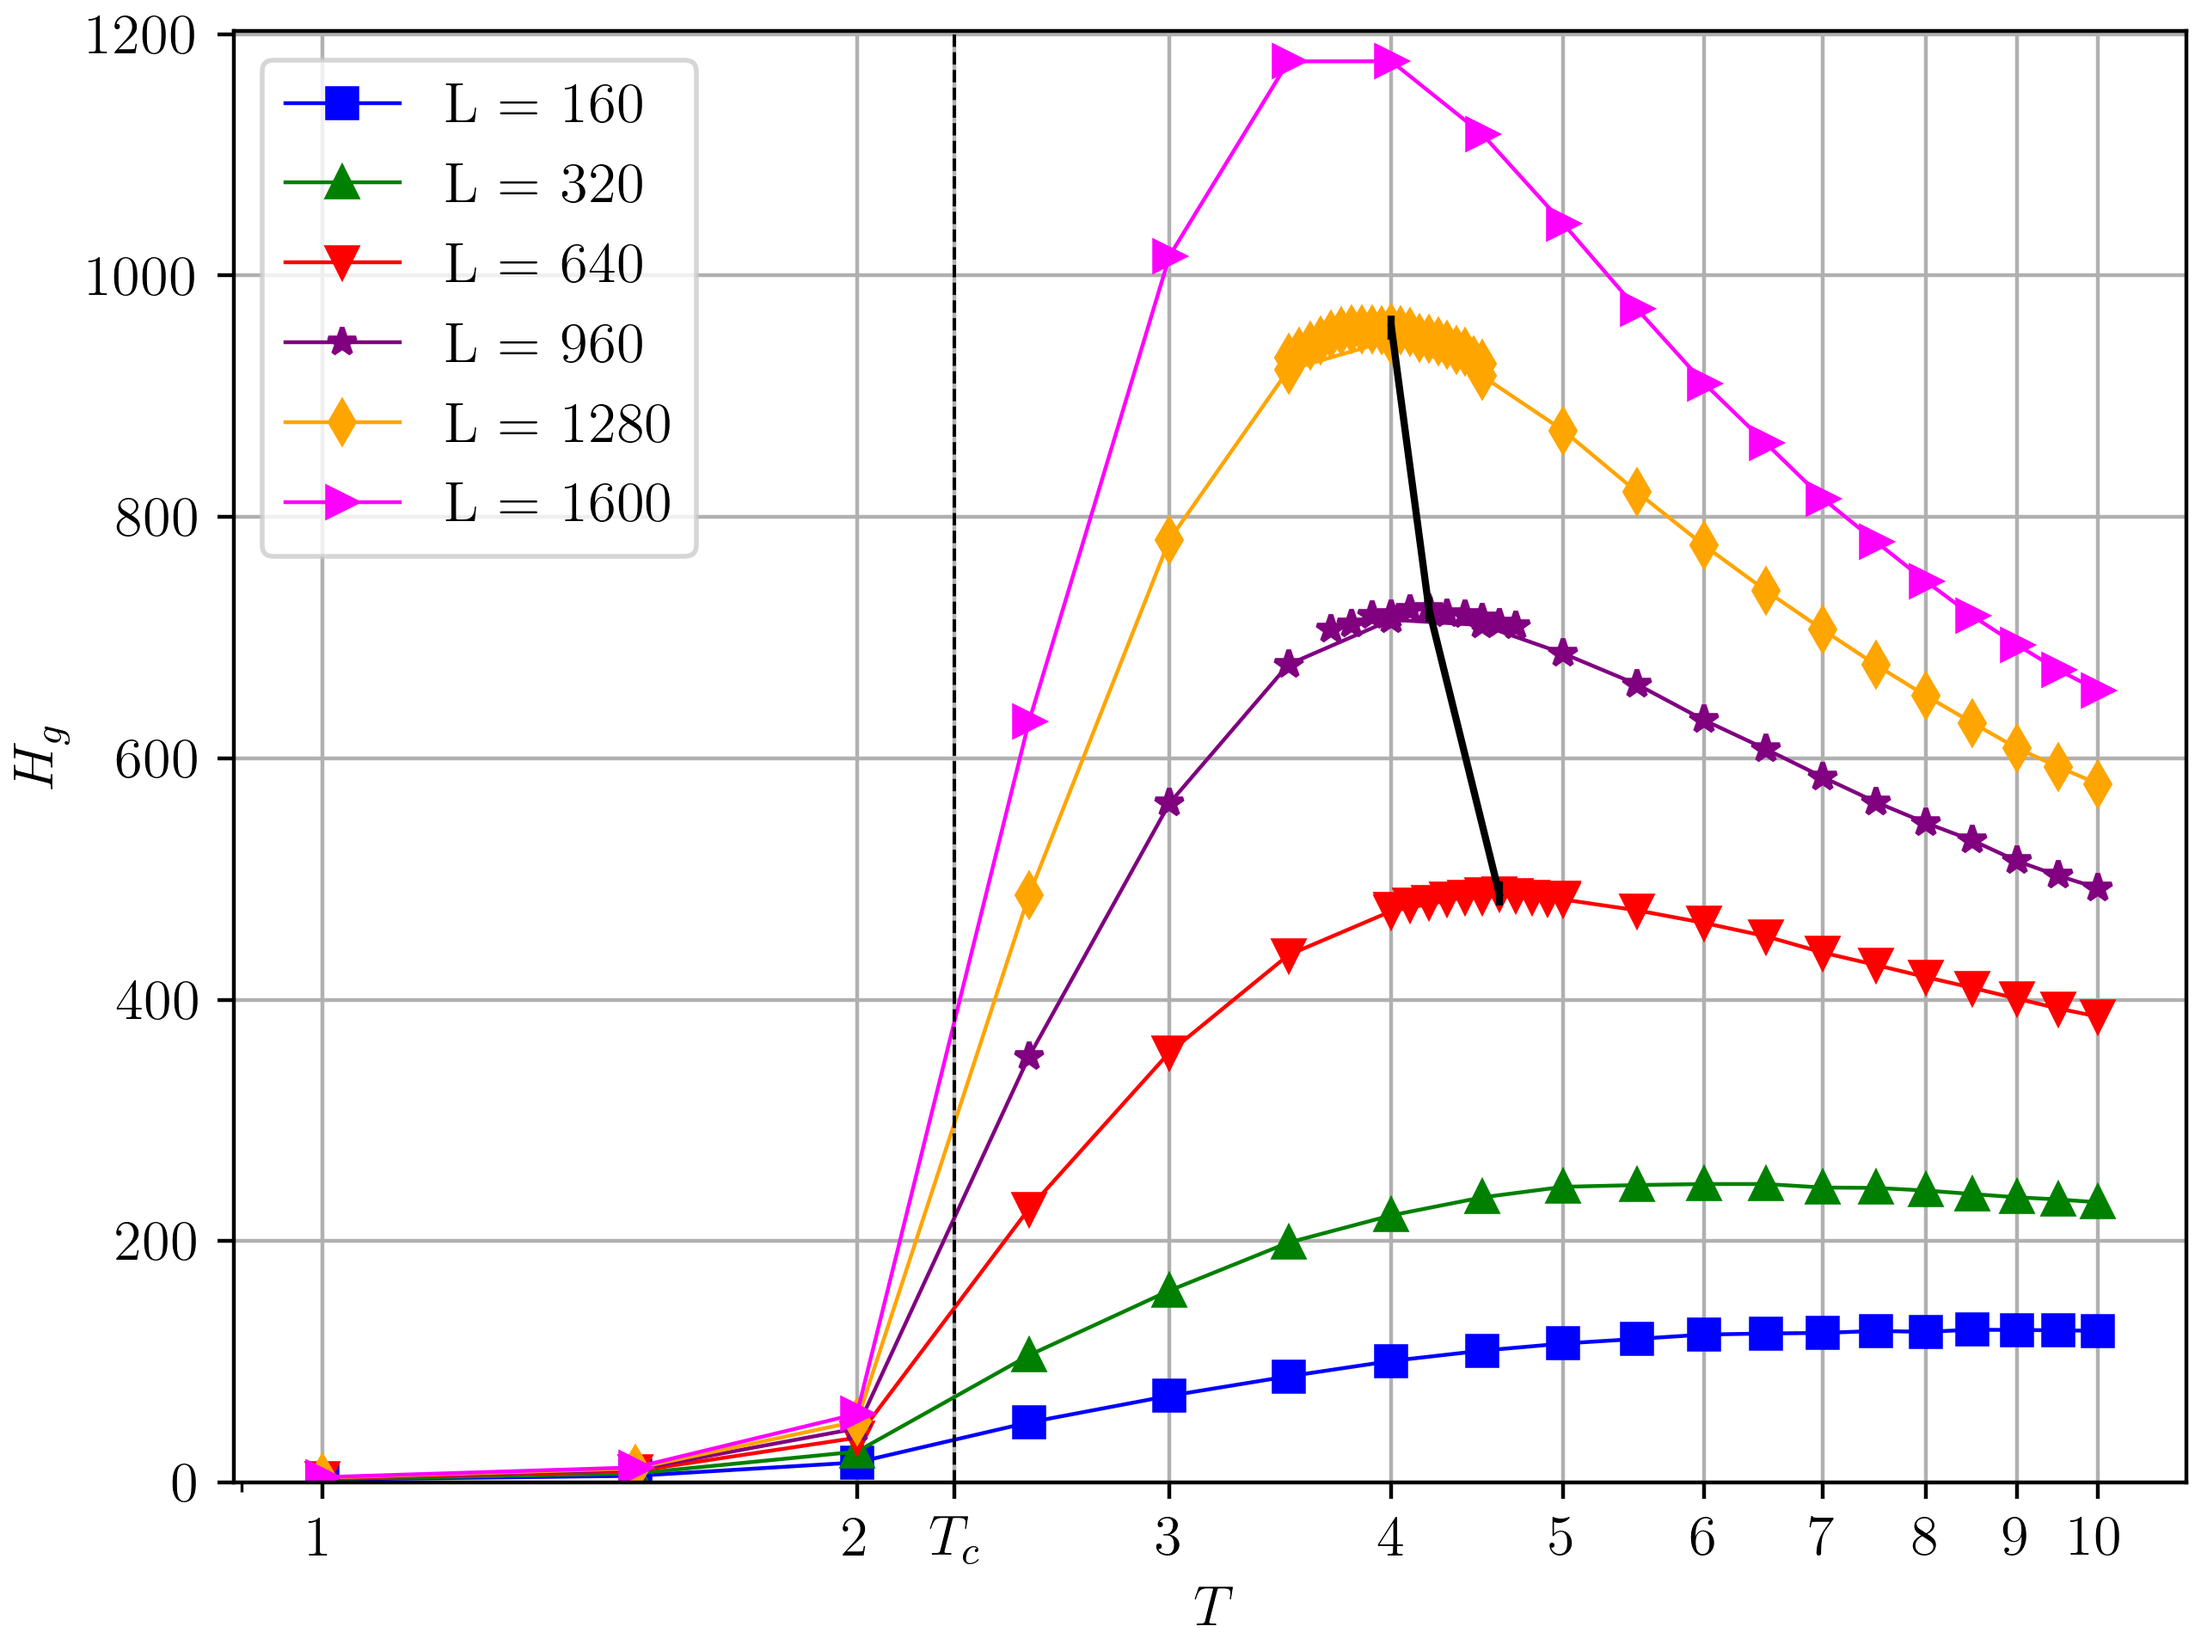
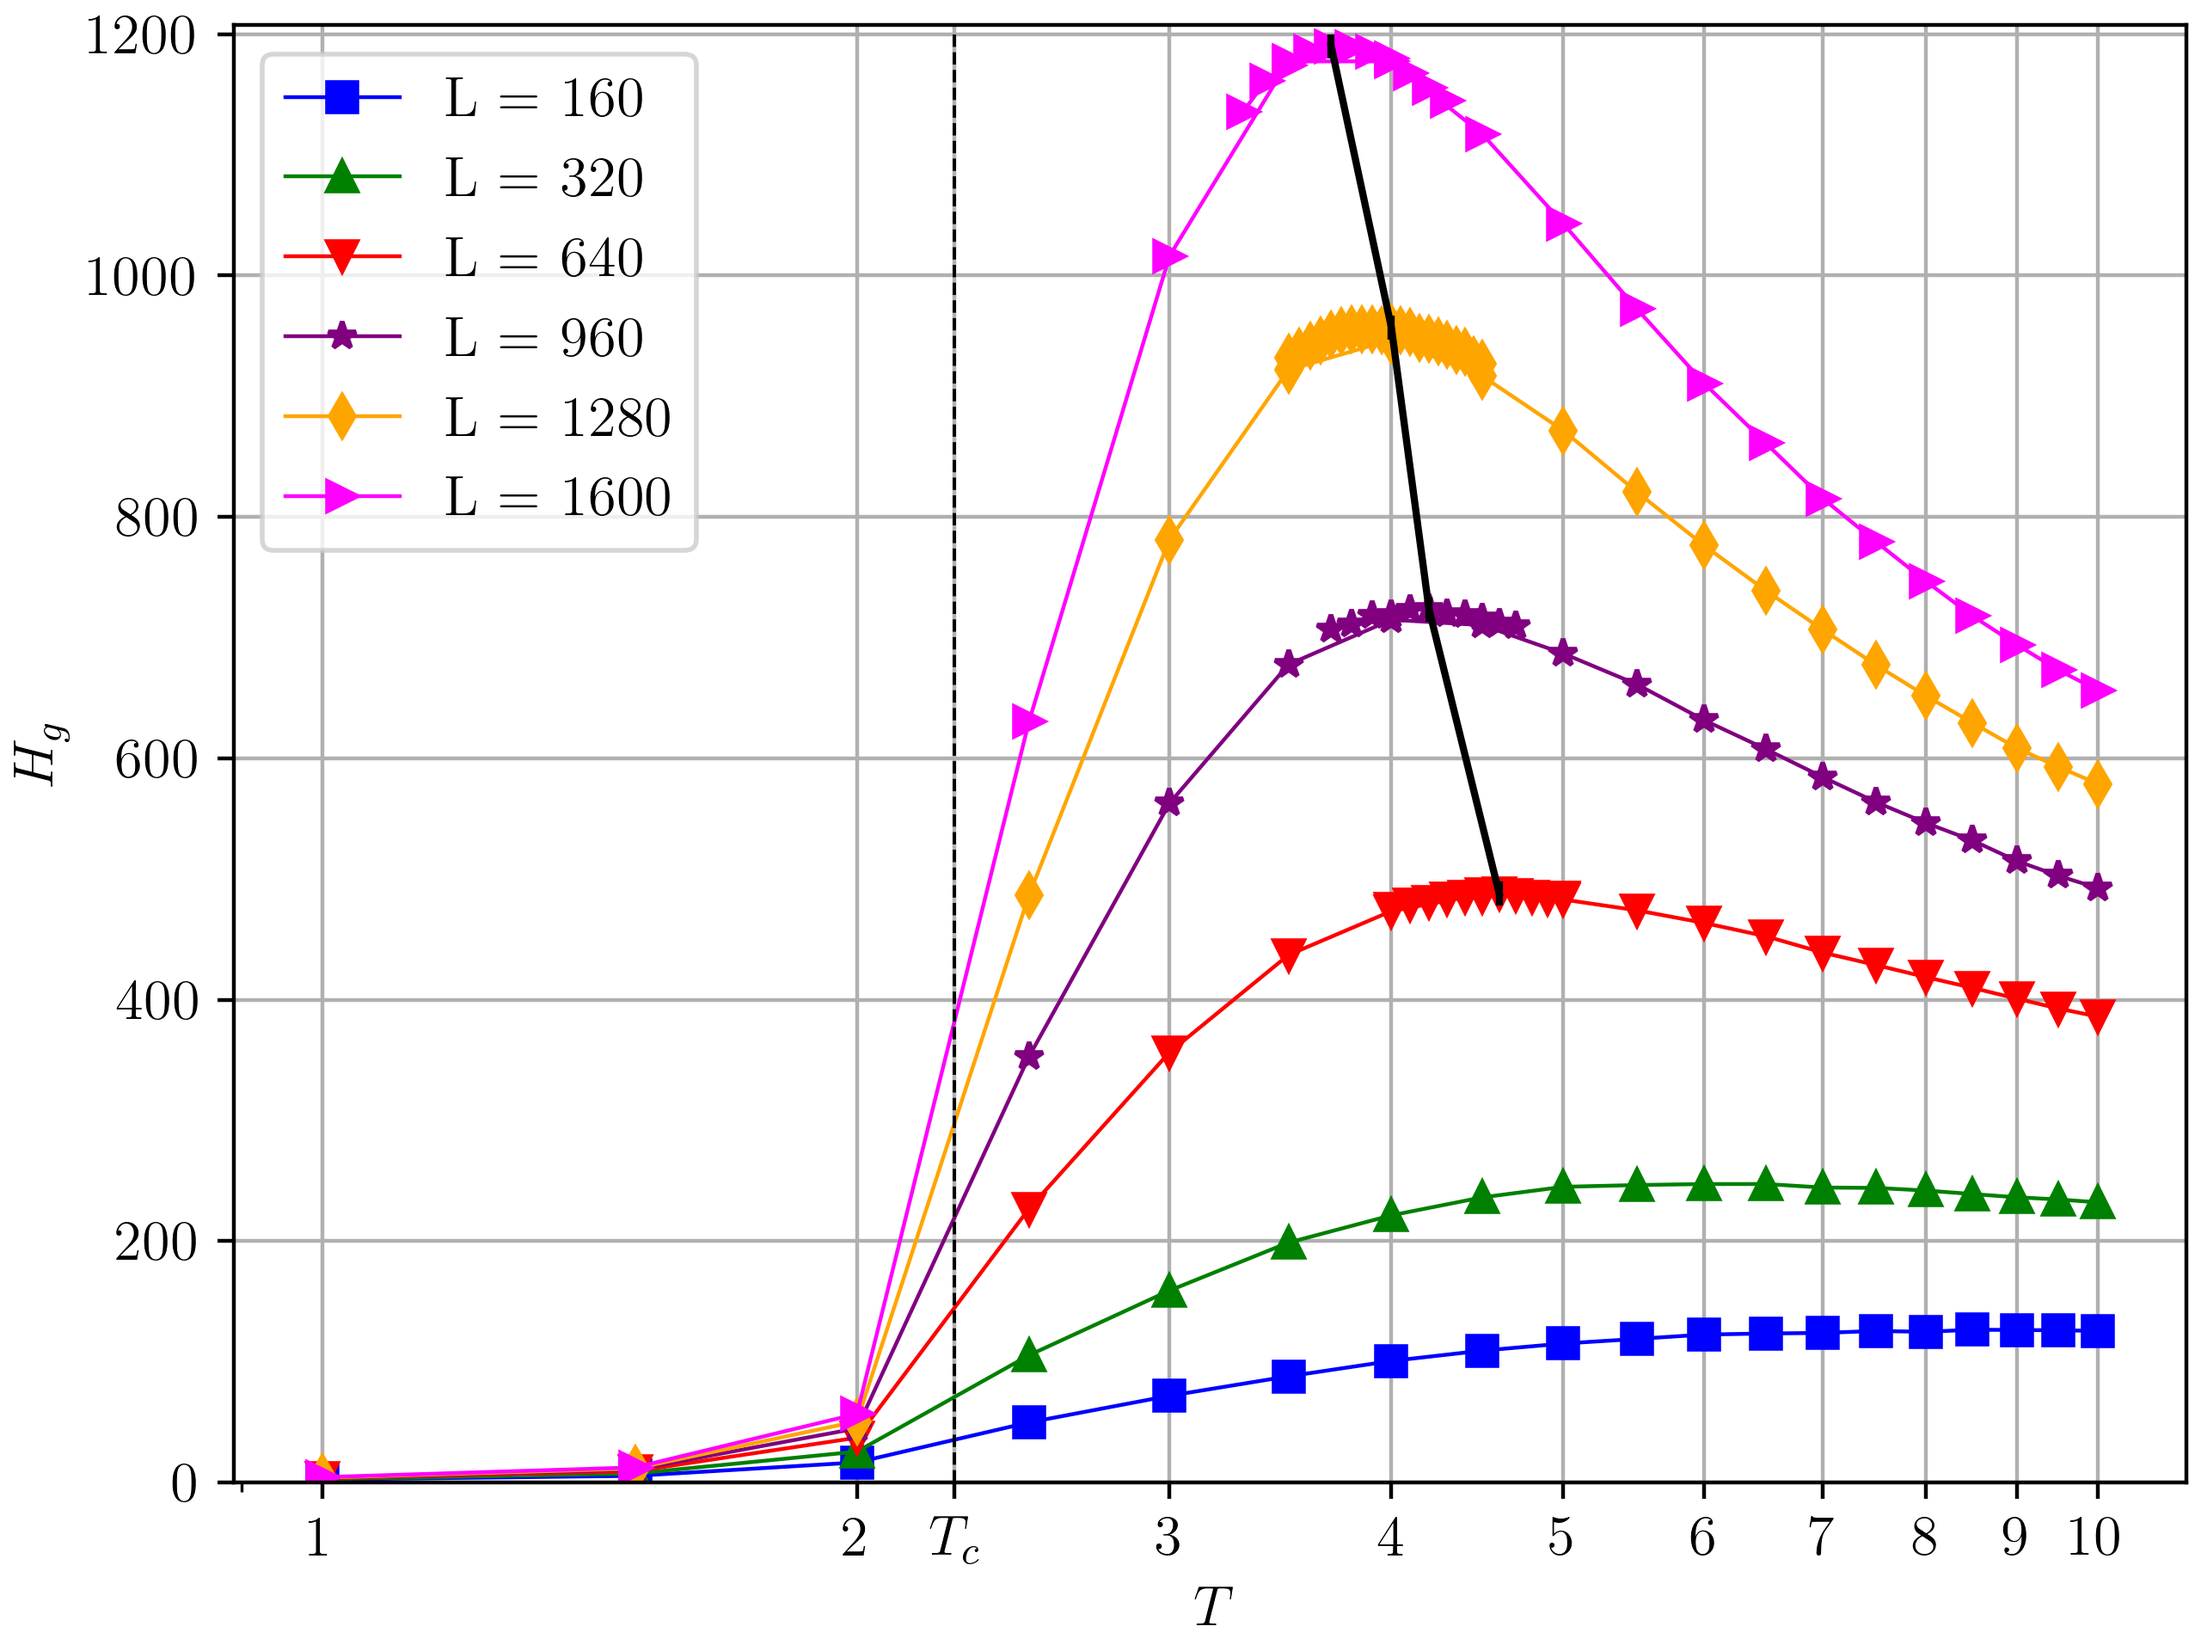
Atualização

diff --git a/ising/ising2D.c b/ising/ising2D.c
@@ -16,23 +16,23 @@ ELE NÃO CRIA A PASTA, ELE SÓ RECEBE O NOME DELA E BOTA OS ARQUIVOS LÁ
 */
 #include "lib.h"
 
-#define PASTA "n1/smpl_500" // Define o nome da pasta na qual serão guardados os arquivos de saída 
+#define PASTA "hksize_teste" // Define o nome da pasta na qual serão guardados os arquivos de saída 
 #define SEED 0          // Define a Seed: se 0 pega do relogio do sistema
-#define L 500           // Aresta da Rede
+#define L 160           // Aresta da Rede
 #define STEPS 0      // Número de MCS no equilíbrio
 #define RND 1           // 0: inicialização da rede toda com spin 1 || 1: inicialização aleatória da rede
 #define IMG 0           // Para gravar snapshots
 #define CI 0            // Para gravar a condição inicial
-#define TI 0.        // Temperatura inicial
-#define TF 0.        // Temperatua final
-#define dT 0.05          // Delta T
+#define TI 2.1        // Temperatura inicial
+#define TF 2.8        // Temperatua final
+#define dT 0.01          // Delta T
 #define TRANS 0      // Número de MCS para jogar fora (transiente)
 #define CR 0            // Gravar a Correlação espacial
-#define HK 0            // Identificar clusters: 0 não mede, 1 mede tudo, 2 mede só o Hg
+#define HK 2            // Identificar clusters: 0 não mede, 1 mede tudo, 2 mede só o Hg
 #define SNAP 0          // Takes a snapshot of the moment
-#define CLS 0           // Saves the size of each cluster
+#define CLS 1           // Saves the size of each cluster
 #define MES 0           // 0 doesn't mesure Energy and Magnetization and time correlation
-#define N1 1            // Counts the number of isolated spins
+#define N1 0            // Counts the number of isolated spins
 
 
 int main(int argc, char *argv[]){
@@ -204,7 +204,10 @@ int main(int argc, char *argv[]){
             fprintf(hk, "# %d\n", Hg(hksize, hg, N));
             if(HK == 1) for(int i = 0; i < N; ++i) fprintf(hk, "%d\n", hksis[i]);
             // Saves the size of each cluster
-            if(CLS) for(int i = 0; i < N; ++i) if(hksize[i] > 0) fprintf(cls, "%d %d\n", i, hksize[i]);
+            if(CLS){
+                for(int i = 0; i < N; ++i) if(hksize[i] > 0) fprintf(cls, "%d %d\n", i, hksize[i]);
+                fprintf(cls, "# %.2lf\n", T[temp]);
+            }
         }
 
         if(N1) fprintf(n1, "%lf\n", lonelyspins(sis, viz, N)/N);

diff --git a/ising/HG-medidas/heterogeneity.py b/ising/HG-medidas/heterogeneity.py
@@ -45,6 +45,13 @@ for i in range(len(L)):
         peaks[0].append(Td[np.where(hgd == max(hgd))])
         peaks[1].append(max(hgd))
         plt.vlines(peaks[0][2], peaks[1][2]-10, peaks[1][2]+10, colors='k', zorder=4)
+    if i == 5:
+        Td = np.arange(3.3, 4.35, .1)
+        hgd = np.loadtxt('dense_hg_1600.dat')
+        plt.plot(Td, hgd, c=colors[i], linewidth=.8, marker=markers[i])
+        peaks[0].append(Td[np.where(hgd == max(hgd))])
+        peaks[1].append(max(hgd))
+        plt.vlines(peaks[0][3], peaks[1][3]-10, peaks[1][3]+10, colors='k', zorder=4)
     plt.plot(T, H[i], linewidth=.8, color=colors[i], marker=markers[i], label=f'L = {L[i]}')
 plt.vlines(2.269, 0, max(H[-1])+25, colors='k', linestyle='dashed', linewidth=.7)
 plt.plot(peaks[0], peaks[1], 'k')
@@ -52,7 +59,7 @@ plt.legend()
 plt.xscale('log')
 plt.xlabel(r'$T$')
 plt.ylabel(r'$H_{g}$')
-plt.ylim(0, max(H[-1])+25)
+plt.ylim(0, max(H[-1])+30)
 plt.xticks([1, 2, 2.269, 3,  4, 5, 6, 7, 8, 9, 10], [1, 2, r'$T_{c}$', 3, 4, 5, 6, 7, 8, 9, 10])
 plt.grid()
 plt.savefig('hetero.png', dpi=400)

diff --git a/ising/clustersize/filter_size.py b/ising/clustersize/filter_size.py
@@ -1,0 +1,48 @@
+import os
+import math
+import fnmatch
+
+L = 160
+TI = 2.1
+TF = 2.8
+dT = 0.01
+
+
+L2 = L**2
+N = math.ceil((TF-TI)/dT)
+T = list(TI+(n*dT) for n in range(N+1))
+n = len(T)
+CLS = list(0 for i in range(N+1))
+
+print(T)
+print(len(T))
+print(CLS)
+print(len(CLS))
+
+path = f'hksize_teste' #{L}'
+samples = fnmatch.filter(list(i.name for i in os.scandir(path)), 'CLS*')
+#print(samples)
+
+t = 0
+
+for file in samples:
+    l = list()
+    s = 0
+    t = 0
+    with open(os.path.join(path, file), 'r') as f:
+        lines = f.readlines()
+        for li in range(len(lines)):
+            l.append(int(lines[li].split(' ')[0]))
+            s += int(lines[li].split(' ')[1])
+            if s == L2:
+                CLS[t] += L2/len(l)
+                l.clear()
+                s = 0
+                t += 1
+
+CLS = list(CLS[i]/len(samples) for i in range(n))
+
+with open(path+'.dat', 'w') as f:
+    for j in range(n):
+        f.write(f'{CLS[j]}\n')
+

diff --git a/ising/clustersize/sizeplot.py b/ising/clustersize/sizeplot.py
@@ -1,0 +1,30 @@
+import matplotlib.pyplot as plt
+import numpy as np
+plt.rcParams.update({"text.usetex" : True, "font.family" : "serif", "font.serif" : ["Computer Modern Serif"], "font.size" : 12})
+
+L = [320, 800]
+TI = 2.1
+TF = 2.8
+dT = 0.02
+
+cls = [np.loadtxt(f'clsize_{L[0]}.dat'), np.loadtxt(f'clsize_{L[1]}.dat')]
+T = np.arange(TI, TF+dT, dT)
+
+markers = ['v', '^']
+
+
+fig, ax = plt.subplots(1, 1, layout='constrained')
+for l in range(len(L)):
+    plt.plot(T, cls[l], linewidth=.8, marker=markers[l], label=f'L = {L[l]}')
+plt.vlines(2.269, min(cls[0])*.9, max(cls[1])*1.1, colors='k', linestyle='dashed', linewidth=.5)
+plt.legend()
+#plt.xscale('log')
+#plt.yscale('log')
+plt.xlabel(r'$T$')
+plt.ylabel(r'$\left \langle A \right \rangle$')
+plt.ylim(min(cls[0])*0.95, max(cls[1])*1.05) #6max()*1.5)
+plt.xlim(TI, TF)
+#plt.xticks([2, 2.269]+list(range(3, 21)), [2, r'$T_{c}$']+list(range(3, 21)))
+#plt.grid()
+plt.savefig('meansize.png', dpi=400)
+

diff --git a/ising/lib.c b/ising/lib.c
@@ -135,19 +135,13 @@ void hoshenkopelman(int *sis, int **viz, int *hk, int *hksize, int N){
 
     // Union of clusters
     for(int i = 0; i < N; ++i){
-        //printf("i = %d\n", i);
         if(sis[i] == sis[viz[i][1]]){
-            //printf("i_up = %d\n", viz[i][1]);
             unionfind(i, viz[i][1], hk, viz);
         }
         if(sis[i] == sis[viz[i][2]]){
-            //printf("i_l = %d\n", viz[i][2]);
             unionfind(i, viz[i][2], hk, viz);
         }
-        //printf("*-*-*-*-*-*-*-*-*-*-*-*-*-*-*-*-*\n");
     }
-
-    // DEU SEGFAULT NO i = 408960 quando entrou no viz[i][2]
 
     // Mesure size of clusters
     memset(hksize, 0, N*sizeof(*hksize));

diff --git a/ising/run.py b/ising/run.py
@@ -1,11 +1,15 @@
 #!/usr/bin/python3
 import os
+import sys
+
+AMOSTRAS = int(sys.argv[1])
 
 os.system('make out')
 
-for i in range(100):
-    print(f'Sample: {i+1}')
-    os.system('./out')
+for i in range(AMOSTRAS):
+    os.system('./out_size')
 print()
+
+
 os.system('make clean')
 
